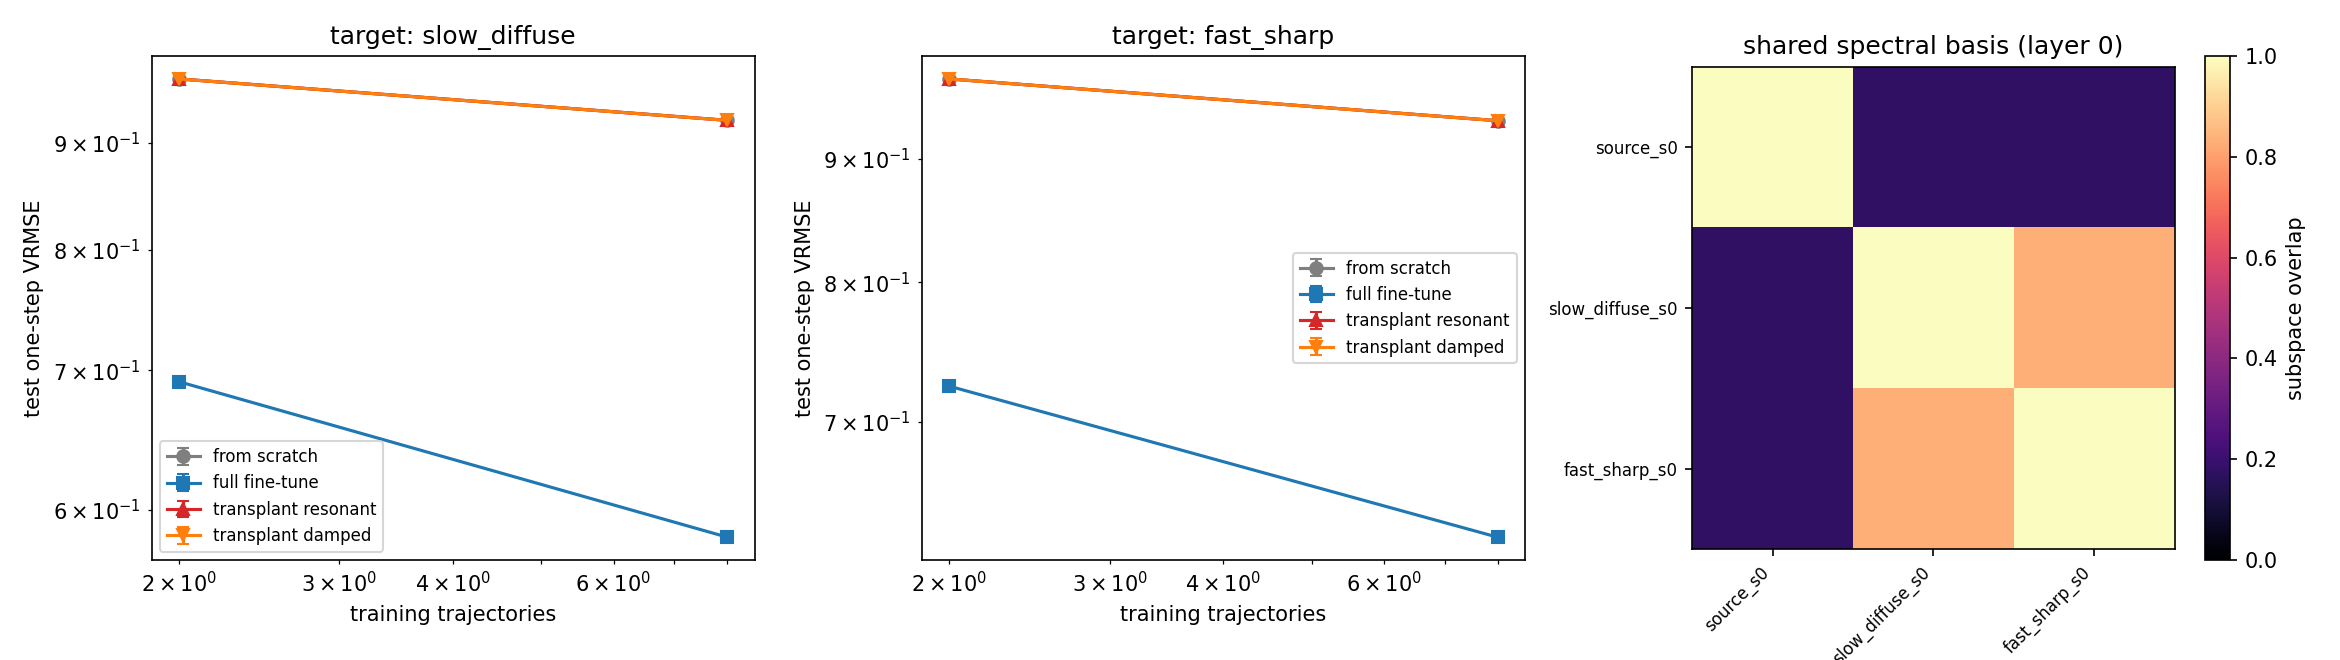
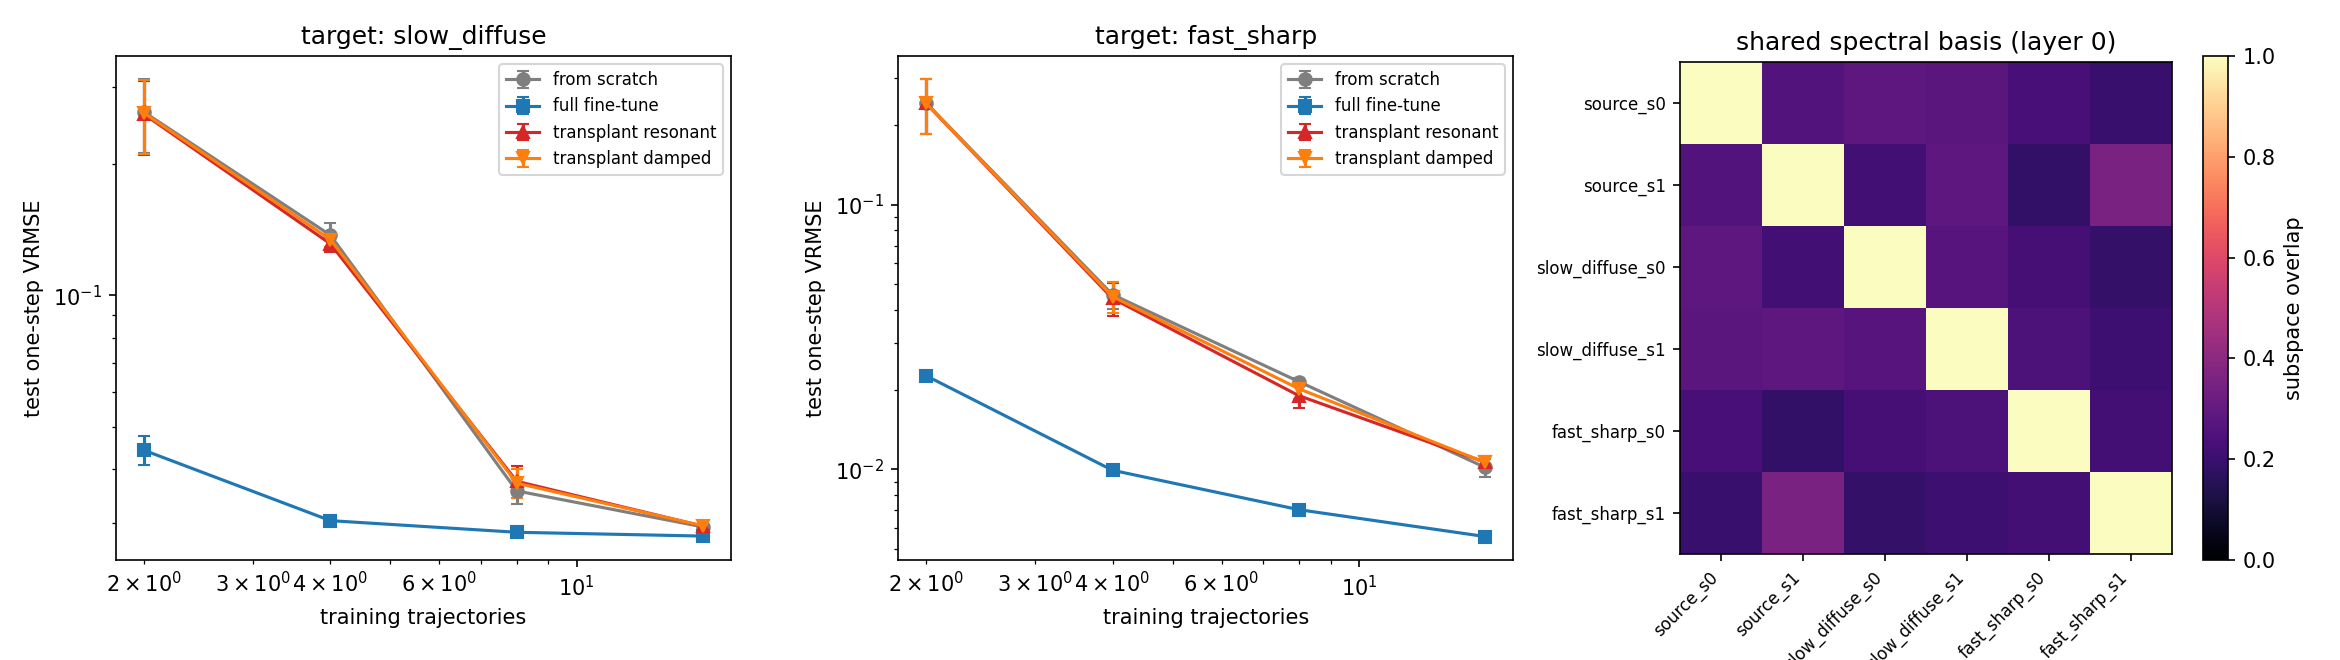
exps

diff --git a/docs/mode_transplant.md b/docs/mode_transplant.md
@@ -1,0 +1,130 @@
+# Do the resonant factors carry across regimes? (ext21, H2)
+
+`scripts/mode_transplant.py`
+
+H2: the learned low-rank spectral factors corresponding to stable and resonant
+modes are shared physics, so freezing them into a model for a different regime
+recovers much of full training at a fraction of the data, while transplanting
+the damped modes recovers nothing. The asymmetry between those two is what would
+make the mode classification physically meaningful.
+
+**The answer is no, and the reason is more interesting than the result.**
+
+## What was run
+
+A source model is trained on one regime of the exactly solvable oscillatory
+system (one-step VRMSE 0.0183). Its rank components are split into resonant and
+damped by the ext19 pole readout, matched to equal size (4 and 4 of rank 8,
+split margin 0.374). Four arms then train on each of two held-out regimes at
+four data budgets, three seeds each:
+
+| arm | what carries over |
+|---|---|
+| `scratch` | nothing |
+| `finetune` | the entire source model, all weights trainable |
+| `transplant_resonant` | 4 resonant components, frozen |
+| `transplant_damped` | 4 damped components, frozen (the control) |
+
+Freezing is per component and enforced by masking the gradient, not by an
+initialization that training is then free to undo -- otherwise the arm measures
+a warm start, which is a much weaker claim.
+
+## Results
+
+```
+target: slow_diffuse
+ budget    scratch   finetune   resonant     damped   asymmetry     /sd
+      2    0.26286    0.04410    0.25988    0.26150    +0.00162   +0.02
+      4    0.13726    0.03042    0.13114    0.13413    +0.00299   +0.40
+      8    0.03559    0.02861    0.03744    0.03708    -0.00036   -0.09
+     16    0.02943    0.02804    0.02954    0.02959    +0.00005   +0.05
+
+target: fast_sharp
+      2    0.24190    0.02259    0.24143    0.24166    +0.00024   +0.00
+      4    0.04574    0.00993    0.04425    0.04497    +0.00071   +0.08
+      8    0.02147    0.00705    0.01900    0.02018    +0.00118   +0.46
+     16    0.01018    0.00558    0.01065    0.01063    -0.00002   -0.03
+```
+
+0 of 8 cells put the resonant transplant more than one standard deviation ahead
+of the size-matched damped control. The asymmetries are in the third decimal
+place, two of the eight are negative, and neither transplant is meaningfully
+better than starting from scratch.
+
+Full fine-tuning, meanwhile, is dramatically better than everything: 0.044
+against 0.263 from scratch at two trajectories. Transfer across these regimes is
+real and large. It just does not decompose into the mode-classified pieces H2
+proposed.
+
+## Why: the spectral basis is not identifiable
+
+The overlap matrix is the control that turns a null result into an explanation.
+It measures the principal angles between the mode-axis bases two models learned,
+and it includes **same-regime pairs trained from different seeds** as the
+reference:
+
+| pair | overlap | median angle |
+|---|---|---|
+| source s0 vs source **s1** (same regime) | 0.258 | 64.0 deg |
+| source vs slow_diffuse | 0.283 | 65.2 deg |
+| source vs fast_sharp | 0.230 | 72.1 deg |
+| slow_diffuse vs fast_sharp | 0.226 | 69.4 deg |
+
+Two models trained on the *same* regime, differing only in seed, share no more
+spectral structure than models trained on different regimes -- 0.258 against
+0.230 to 0.283, all at median principal angles around 65 degrees. The learned CP
+mode basis is dominated by initialization, not by physics.
+
+That single row disposes of the transplant question. There is no regime-specific
+signal to fail to transfer, because there is no seed-stable signal to begin
+with. It also explains why fine-tuning works while partial transplants do not:
+what transfers is the *whole* operator acting coherently, not any identifiable
+subspace of it, and moving four of eight components into a model whose other
+four are random noise contributes nothing to either.
+
+Reading the cross-regime overlaps without the same-seed reference would have
+suggested the opposite: 0.23 to 0.28 looks like meaningful shared structure
+until the same-regime pair turns out to sit at the same value.
+
+## What this rules out, and what it does not
+
+Ruled out: that CP rank components of a trained spectral operator are
+individually interpretable units of physics that can be selected by a pole
+classifier and moved between regimes. On this architecture and these systems,
+they are not.
+
+Not ruled out: that neural operators learn transferable physics. They evidently
+do -- the fine-tune arm is a factor of six better than scratch at the smallest
+budget. The claim that fails is specifically about *decomposability*, and the
+mechanism is the well-known non-identifiability of a CP factorization, which is
+unique only up to permutation and scaling of its components and, in a trained
+network, not even approximately pinned down.
+
+A follow-up with a chance of working would have to make the basis identifiable
+first -- an orthogonality or alignment penalty during training, or matching
+components across models before comparing them rather than assuming a shared
+index order.
+
+## An honest limit of the method
+
+CP factorization stores no per-mode weights, so "transplant the resonant modes"
+is not directly expressible: the rank components each spread over the entire
+mode grid. The selection assigns each component to whichever half of the
+spectrum holds more of its footprint, which is weaker than identifying a
+component *as* the resonant physics.
+
+The first implementation thresholded each set independently and returned all
+eight components for both sets, silently collapsing the two transplant arms into
+the same arm. The script now reports the component counts and the split margin
+so a degenerate selection is visible in the output rather than hidden behind
+suspiciously equal numbers.
+
+## Reproducing
+
+```bash
+python3 scripts/mode_transplant.py           # ~25 minutes on CPU
+python3 scripts/mode_transplant.py --quick   # plumbing check only
+```
+
+Outputs: `results/extensions/ext21_transplant.csv`, `ext21_overlap.csv`,
+`ext21_summary.csv`, and `figures/extensions/ext21_mode_transplant.png`.

diff --git a/docs/extensions.md b/docs/extensions.md
@@ -64,8 +64,14 @@ empirical transfer function and extracting pole structure from them.
   weights and one frame separates the worse half of 20 held-out regimes at
   AUC 0.983.
 - [Do the resonant factors carry across regimes?](mode_transplant.md) (ext21,
-  H2) -- step 5. Four arms at matched component counts, plus the principal-angle
-  overlap matrix between spectral bases learned on different regimes.
+  H2) -- step 5. No: 0 of 8 (target, budget) cells put the resonant transplant
+  ahead of the size-matched damped control. The overlap matrix says why, and it
+  needed the same-regime different-seed pair to say it: two models trained on the
+  *same* regime share no more spectral basis (0.258) than models trained on
+  different ones (0.230-0.283), so the CP mode basis is set by initialization
+  rather than physics and there is no identifiable subspace to move. Transfer
+  itself is real and large -- full fine-tuning beats scratch by a factor of six
+  at the smallest budget -- but it does not decompose.
 
 ## Baseline
 
